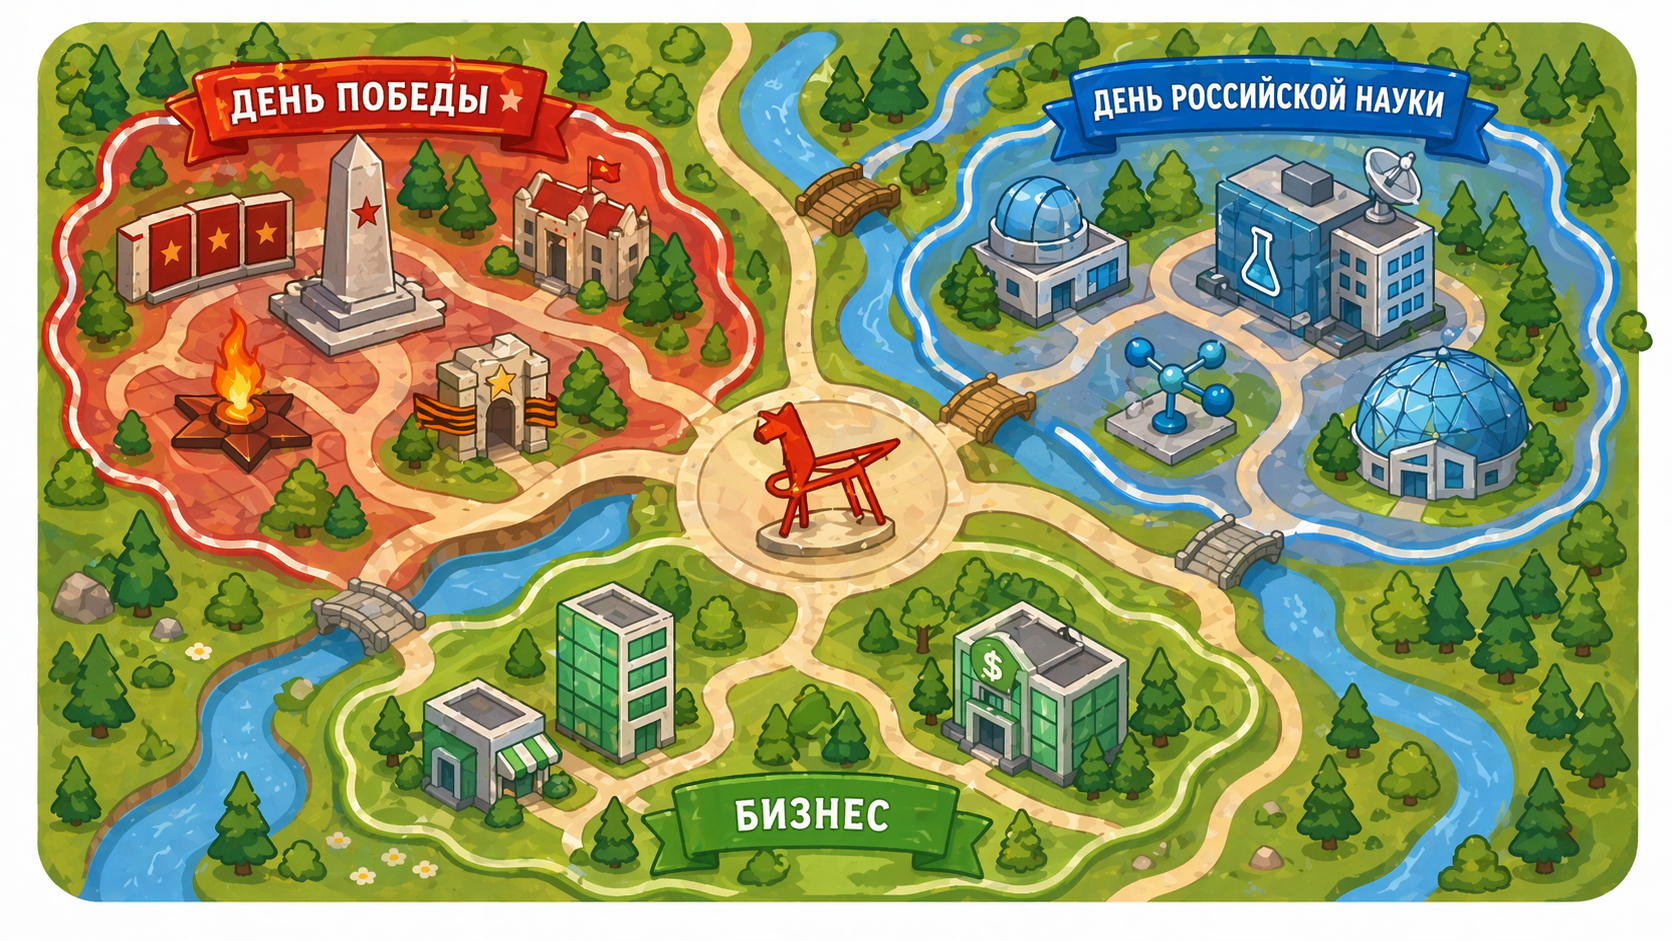
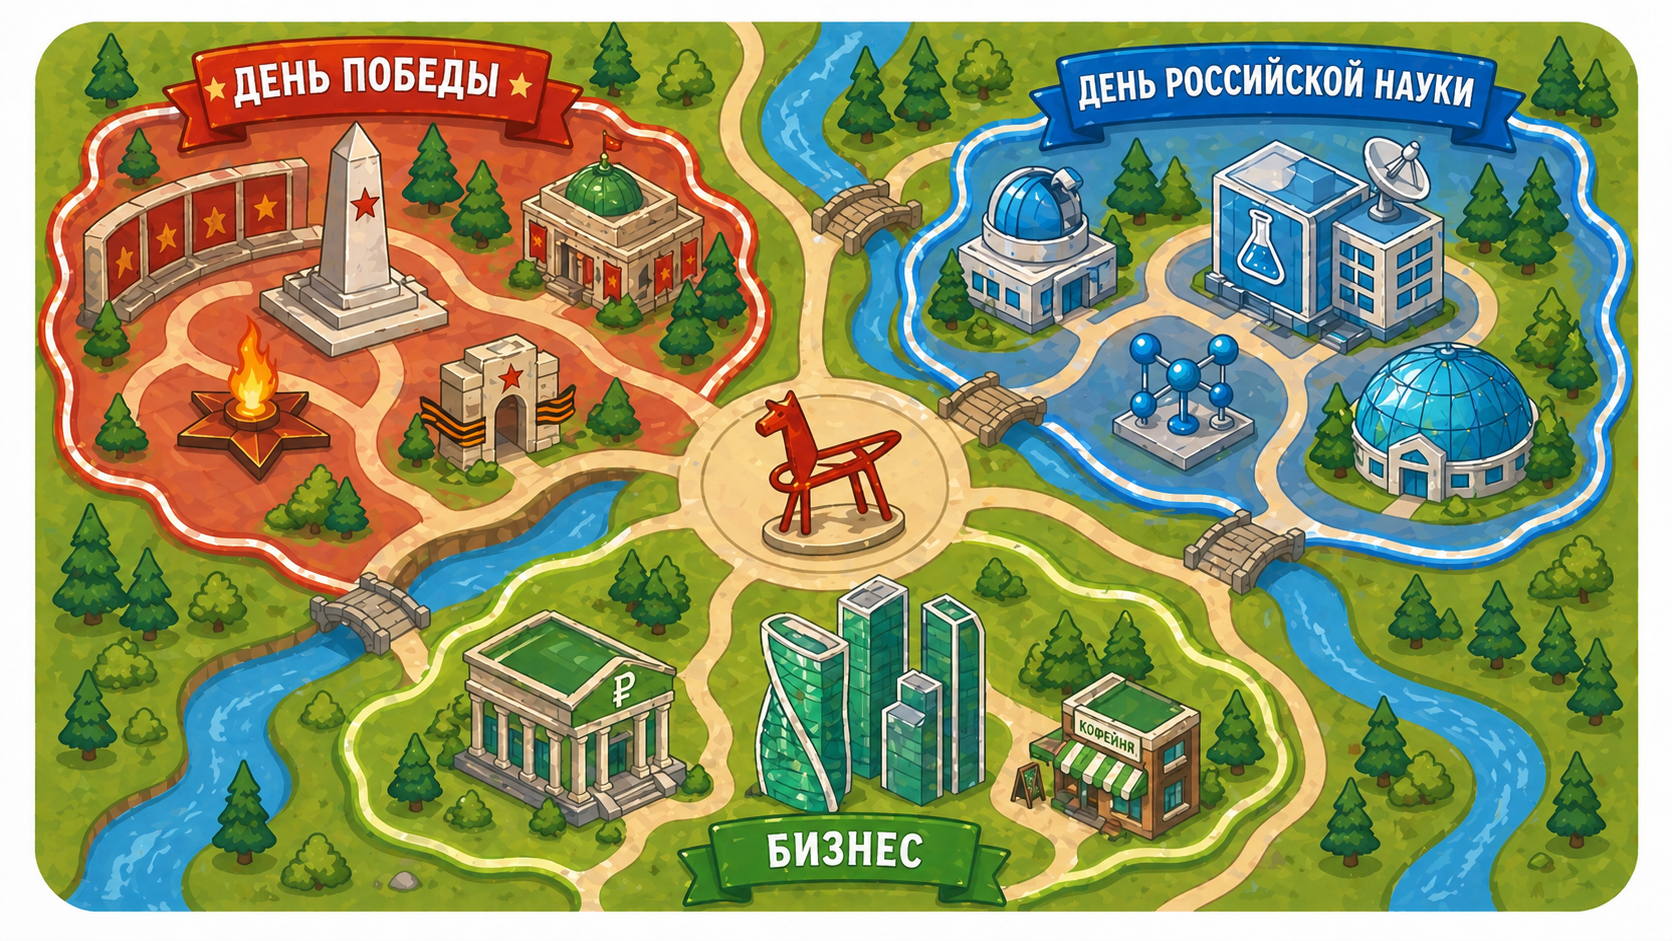
modified:   index.html 	modified:   map.png 	deleted:    map1.png 	modified:   style.css

diff --git a/index.html b/index.html
@@ -18,7 +18,7 @@
          onclick="openGame('svoya-igra')"></div> 
 
      <!-- 8-9 классы -->
-    <div class="zone" style="left:30%; top:19%; width:10%; height:14%;"
+    <div class="zone" style="left:30%; top:13%; width:14%; height:20%;"
          onclick="openGame('path-game')"></div>
 
      <!-- 5-7 класс -->
@@ -39,16 +39,16 @@
          onclick="openGame('find-similar')"></div>
 
     <!-- про бизнес -->
-     <!-- 5-11 классы -->
-    <div class="zone" style="left:25%; top:72%; width:8%; height:16%;"
+     <!-- 8-9 классы -->
+    <div class="zone" style="left:44%; top:60%; width:15.5%; height:27%;"
          onclick="openGame('emodji')"></div>
 
-     <!-- 8-9 классы -->
-    <div class="zone" style="left:33%; top:62%; width:8%; height:22%;"
+     <!-- 5-7 классы -->
+    <div class="zone" style="left:27%; top:64%; width:16%; height:24%;"
          onclick="openGame('buisnes-viselica')"></div>
 
-     <!-- 7-11 классы -->
-    <div class="zone" style="left:56%; top:62%; width:13%; height: 22%;"
+     <!-- 5-11 классы -->
+    <div class="zone" style="left:60%; top:72%; width:13%; height: 18%;"
          onclick="openGame('words-in-word')"></div>
 
      <div class="zone center-zone"

diff --git a/style.css b/style.css
@@ -22,7 +22,7 @@ body {
   aspect-ratio: 18 / 10;
   height: 100%;
   max-width: 100%;
-  background: url("map1.png") center/cover no-repeat;
+  background: url("map.png") center/cover no-repeat;
   box-shadow: 0 0 40px rgba(0,0,0,0.6);
 }
 
